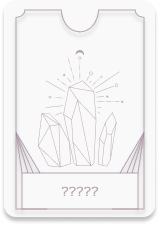
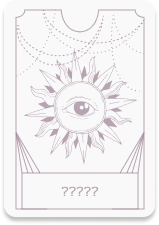
add: easter egg field

diff --git a/packages/database/zod/index.ts b/packages/database/zod/index.ts
@@ -30,7 +30,7 @@ export const RevealedHintInstancesScalarFieldEnumSchema = z.enum(['create_at','u
 
 export const PairScalarFieldEnumSchema = z.enum(['id','freshmenDetailsId','sophomoreDetailsId']);
 
-export const FreshmenDetailsScalarFieldEnumSchema = z.enum(['create_at','update_at','id','userId','thisOrThat','thisOrThatReady','student_id','title','first_name','last_name','nickname','branch','facebook_link','instagram_link','phone','passcodePoints','vip','quota']);
+export const FreshmenDetailsScalarFieldEnumSchema = z.enum(['create_at','update_at','id','userId','thisOrThat','thisOrThatReady','student_id','title','first_name','last_name','nickname','branch','facebook_link','instagram_link','phone','passcodePoints','easterEgg','vip','quota']);
 
 export const HintSlugsScalarFieldEnumSchema = z.enum(['slug','displayName','index']);
 
@@ -224,6 +224,7 @@ export const FreshmenDetailsSchema = z.object({
   instagram_link: z.string().nullable(),
   phone: z.string(),
   passcodePoints: z.number().int(),
+  easterEgg: z.boolean(),
   vip: z.boolean(),
   quota: z.number().int(),
 })
@@ -592,6 +593,7 @@ export const FreshmenDetailsSelectSchema: z.ZodType<Prisma.FreshmenDetailsSelect
   instagram_link: z.boolean().optional(),
   phone: z.boolean().optional(),
   passcodePoints: z.boolean().optional(),
+  easterEgg: z.boolean().optional(),
   vip: z.boolean().optional(),
   quota: z.boolean().optional(),
   user: z.union([z.boolean(),z.lazy(() => UserArgsSchema)]).optional(),
@@ -1261,6 +1263,7 @@ export const FreshmenDetailsWhereInputSchema: z.ZodType<Prisma.FreshmenDetailsWh
   instagram_link: z.union([ z.lazy(() => StringNullableFilterSchema),z.string() ]).optional().nullable(),
   phone: z.union([ z.lazy(() => StringFilterSchema),z.string() ]).optional(),
   passcodePoints: z.union([ z.lazy(() => IntFilterSchema),z.number() ]).optional(),
+  easterEgg: z.union([ z.lazy(() => BoolFilterSchema),z.boolean() ]).optional(),
   vip: z.union([ z.lazy(() => BoolFilterSchema),z.boolean() ]).optional(),
   quota: z.union([ z.lazy(() => IntFilterSchema),z.number() ]).optional(),
   user: z.union([ z.lazy(() => UserRelationFilterSchema),z.lazy(() => UserWhereInputSchema) ]).optional(),
@@ -1287,6 +1290,7 @@ export const FreshmenDetailsOrderByWithRelationInputSchema: z.ZodType<Prisma.Fre
   instagram_link: z.union([ z.lazy(() => SortOrderSchema),z.lazy(() => SortOrderInputSchema) ]).optional(),
   phone: z.lazy(() => SortOrderSchema).optional(),
   passcodePoints: z.lazy(() => SortOrderSchema).optional(),
+  easterEgg: z.lazy(() => SortOrderSchema).optional(),
   vip: z.lazy(() => SortOrderSchema).optional(),
   quota: z.lazy(() => SortOrderSchema).optional(),
   user: z.lazy(() => UserOrderByWithRelationInputSchema).optional(),
@@ -1319,6 +1323,7 @@ export const FreshmenDetailsOrderByWithAggregationInputSchema: z.ZodType<Prisma.
   instagram_link: z.union([ z.lazy(() => SortOrderSchema),z.lazy(() => SortOrderInputSchema) ]).optional(),
   phone: z.lazy(() => SortOrderSchema).optional(),
   passcodePoints: z.lazy(() => SortOrderSchema).optional(),
+  easterEgg: z.lazy(() => SortOrderSchema).optional(),
   vip: z.lazy(() => SortOrderSchema).optional(),
   quota: z.lazy(() => SortOrderSchema).optional(),
   _count: z.lazy(() => FreshmenDetailsCountOrderByAggregateInputSchema).optional(),
@@ -1348,6 +1353,7 @@ export const FreshmenDetailsScalarWhereWithAggregatesInputSchema: z.ZodType<Pris
   instagram_link: z.union([ z.lazy(() => StringNullableWithAggregatesFilterSchema),z.string() ]).optional().nullable(),
   phone: z.union([ z.lazy(() => StringWithAggregatesFilterSchema),z.string() ]).optional(),
   passcodePoints: z.union([ z.lazy(() => IntWithAggregatesFilterSchema),z.number() ]).optional(),
+  easterEgg: z.union([ z.lazy(() => BoolWithAggregatesFilterSchema),z.boolean() ]).optional(),
   vip: z.union([ z.lazy(() => BoolWithAggregatesFilterSchema),z.boolean() ]).optional(),
   quota: z.union([ z.lazy(() => IntWithAggregatesFilterSchema),z.number() ]).optional(),
 }).strict();
@@ -2207,6 +2213,7 @@ export const FreshmenDetailsCreateInputSchema: z.ZodType<Prisma.FreshmenDetailsC
   instagram_link: z.string().optional().nullable(),
   phone: z.string(),
   passcodePoints: z.number().int().optional(),
+  easterEgg: z.boolean().optional(),
   vip: z.boolean().optional(),
   quota: z.number().int().optional(),
   user: z.lazy(() => UserCreateNestedOneWithoutFreshmenDetailsInputSchema),
@@ -2233,6 +2240,7 @@ export const FreshmenDetailsUncheckedCreateInputSchema: z.ZodType<Prisma.Freshme
   instagram_link: z.string().optional().nullable(),
   phone: z.string(),
   passcodePoints: z.number().int().optional(),
+  easterEgg: z.boolean().optional(),
   vip: z.boolean().optional(),
   quota: z.number().int().optional(),
   usedPasscodes: z.lazy(() => PasscodeInstancesUncheckedCreateNestedManyWithoutUsedByInputSchema).optional(),
@@ -2257,6 +2265,7 @@ export const FreshmenDetailsUpdateInputSchema: z.ZodType<Prisma.FreshmenDetailsU
   instagram_link: z.union([ z.string(),z.lazy(() => NullableStringFieldUpdateOperationsInputSchema) ]).optional().nullable(),
   phone: z.union([ z.string(),z.lazy(() => StringFieldUpdateOperationsInputSchema) ]).optional(),
   passcodePoints: z.union([ z.number().int(),z.lazy(() => IntFieldUpdateOperationsInputSchema) ]).optional(),
+  easterEgg: z.union([ z.boolean(),z.lazy(() => BoolFieldUpdateOperationsInputSchema) ]).optional(),
   vip: z.union([ z.boolean(),z.lazy(() => BoolFieldUpdateOperationsInputSchema) ]).optional(),
   quota: z.union([ z.number().int(),z.lazy(() => IntFieldUpdateOperationsInputSchema) ]).optional(),
   user: z.lazy(() => UserUpdateOneRequiredWithoutFreshmenDetailsNestedInputSchema).optional(),
@@ -2283,6 +2292,7 @@ export const FreshmenDetailsUncheckedUpdateInputSchema: z.ZodType<Prisma.Freshme
   instagram_link: z.union([ z.string(),z.lazy(() => NullableStringFieldUpdateOperationsInputSchema) ]).optional().nullable(),
   phone: z.union([ z.string(),z.lazy(() => StringFieldUpdateOperationsInputSchema) ]).optional(),
   passcodePoints: z.union([ z.number().int(),z.lazy(() => IntFieldUpdateOperationsInputSchema) ]).optional(),
+  easterEgg: z.union([ z.boolean(),z.lazy(() => BoolFieldUpdateOperationsInputSchema) ]).optional(),
   vip: z.union([ z.boolean(),z.lazy(() => BoolFieldUpdateOperationsInputSchema) ]).optional(),
   quota: z.union([ z.number().int(),z.lazy(() => IntFieldUpdateOperationsInputSchema) ]).optional(),
   usedPasscodes: z.lazy(() => PasscodeInstancesUncheckedUpdateManyWithoutUsedByNestedInputSchema).optional(),
@@ -2308,6 +2318,7 @@ export const FreshmenDetailsCreateManyInputSchema: z.ZodType<Prisma.FreshmenDeta
   instagram_link: z.string().optional().nullable(),
   phone: z.string(),
   passcodePoints: z.number().int().optional(),
+  easterEgg: z.boolean().optional(),
   vip: z.boolean().optional(),
   quota: z.number().int().optional()
 }).strict();
@@ -2328,6 +2339,7 @@ export const FreshmenDetailsUpdateManyMutationInputSchema: z.ZodType<Prisma.Fres
   instagram_link: z.union([ z.string(),z.lazy(() => NullableStringFieldUpdateOperationsInputSchema) ]).optional().nullable(),
   phone: z.union([ z.string(),z.lazy(() => StringFieldUpdateOperationsInputSchema) ]).optional(),
   passcodePoints: z.union([ z.number().int(),z.lazy(() => IntFieldUpdateOperationsInputSchema) ]).optional(),
+  easterEgg: z.union([ z.boolean(),z.lazy(() => BoolFieldUpdateOperationsInputSchema) ]).optional(),
   vip: z.union([ z.boolean(),z.lazy(() => BoolFieldUpdateOperationsInputSchema) ]).optional(),
   quota: z.union([ z.number().int(),z.lazy(() => IntFieldUpdateOperationsInputSchema) ]).optional(),
 }).strict();
@@ -2349,6 +2361,7 @@ export const FreshmenDetailsUncheckedUpdateManyInputSchema: z.ZodType<Prisma.Fre
   instagram_link: z.union([ z.string(),z.lazy(() => NullableStringFieldUpdateOperationsInputSchema) ]).optional().nullable(),
   phone: z.union([ z.string(),z.lazy(() => StringFieldUpdateOperationsInputSchema) ]).optional(),
   passcodePoints: z.union([ z.number().int(),z.lazy(() => IntFieldUpdateOperationsInputSchema) ]).optional(),
+  easterEgg: z.union([ z.boolean(),z.lazy(() => BoolFieldUpdateOperationsInputSchema) ]).optional(),
   vip: z.union([ z.boolean(),z.lazy(() => BoolFieldUpdateOperationsInputSchema) ]).optional(),
   quota: z.union([ z.number().int(),z.lazy(() => IntFieldUpdateOperationsInputSchema) ]).optional(),
 }).strict();
@@ -3295,6 +3308,7 @@ export const FreshmenDetailsCountOrderByAggregateInputSchema: z.ZodType<Prisma.F
   instagram_link: z.lazy(() => SortOrderSchema).optional(),
   phone: z.lazy(() => SortOrderSchema).optional(),
   passcodePoints: z.lazy(() => SortOrderSchema).optional(),
+  easterEgg: z.lazy(() => SortOrderSchema).optional(),
   vip: z.lazy(() => SortOrderSchema).optional(),
   quota: z.lazy(() => SortOrderSchema).optional()
 }).strict();
@@ -3320,6 +3334,7 @@ export const FreshmenDetailsMaxOrderByAggregateInputSchema: z.ZodType<Prisma.Fre
   instagram_link: z.lazy(() => SortOrderSchema).optional(),
   phone: z.lazy(() => SortOrderSchema).optional(),
   passcodePoints: z.lazy(() => SortOrderSchema).optional(),
+  easterEgg: z.lazy(() => SortOrderSchema).optional(),
   vip: z.lazy(() => SortOrderSchema).optional(),
   quota: z.lazy(() => SortOrderSchema).optional()
 }).strict();
@@ -3340,6 +3355,7 @@ export const FreshmenDetailsMinOrderByAggregateInputSchema: z.ZodType<Prisma.Fre
   instagram_link: z.lazy(() => SortOrderSchema).optional(),
   phone: z.lazy(() => SortOrderSchema).optional(),
   passcodePoints: z.lazy(() => SortOrderSchema).optional(),
+  easterEgg: z.lazy(() => SortOrderSchema).optional(),
   vip: z.lazy(() => SortOrderSchema).optional(),
   quota: z.lazy(() => SortOrderSchema).optional()
 }).strict();
@@ -4954,6 +4970,7 @@ export const FreshmenDetailsCreateWithoutUserInputSchema: z.ZodType<Prisma.Fresh
   instagram_link: z.string().optional().nullable(),
   phone: z.string(),
   passcodePoints: z.number().int().optional(),
+  easterEgg: z.boolean().optional(),
   vip: z.boolean().optional(),
   quota: z.number().int().optional(),
   usedPasscodes: z.lazy(() => PasscodeInstancesCreateNestedManyWithoutUsedByInputSchema).optional(),
@@ -4978,6 +4995,7 @@ export const FreshmenDetailsUncheckedCreateWithoutUserInputSchema: z.ZodType<Pri
   instagram_link: z.string().optional().nullable(),
   phone: z.string(),
   passcodePoints: z.number().int().optional(),
+  easterEgg: z.boolean().optional(),
   vip: z.boolean().optional(),
   quota: z.number().int().optional(),
   usedPasscodes: z.lazy(() => PasscodeInstancesUncheckedCreateNestedManyWithoutUsedByInputSchema).optional(),
@@ -5144,6 +5162,7 @@ export const FreshmenDetailsUpdateWithoutUserInputSchema: z.ZodType<Prisma.Fresh
   instagram_link: z.union([ z.string(),z.lazy(() => NullableStringFieldUpdateOperationsInputSchema) ]).optional().nullable(),
   phone: z.union([ z.string(),z.lazy(() => StringFieldUpdateOperationsInputSchema) ]).optional(),
   passcodePoints: z.union([ z.number().int(),z.lazy(() => IntFieldUpdateOperationsInputSchema) ]).optional(),
+  easterEgg: z.union([ z.boolean(),z.lazy(() => BoolFieldUpdateOperationsInputSchema) ]).optional(),
   vip: z.union([ z.boolean(),z.lazy(() => BoolFieldUpdateOperationsInputSchema) ]).optional(),
   quota: z.union([ z.number().int(),z.lazy(() => IntFieldUpdateOperationsInputSchema) ]).optional(),
   usedPasscodes: z.lazy(() => PasscodeInstancesUpdateManyWithoutUsedByNestedInputSchema).optional(),
@@ -5168,6 +5187,7 @@ export const FreshmenDetailsUncheckedUpdateWithoutUserInputSchema: z.ZodType<Pri
   instagram_link: z.union([ z.string(),z.lazy(() => NullableStringFieldUpdateOperationsInputSchema) ]).optional().nullable(),
   phone: z.union([ z.string(),z.lazy(() => StringFieldUpdateOperationsInputSchema) ]).optional(),
   passcodePoints: z.union([ z.number().int(),z.lazy(() => IntFieldUpdateOperationsInputSchema) ]).optional(),
+  easterEgg: z.union([ z.boolean(),z.lazy(() => BoolFieldUpdateOperationsInputSchema) ]).optional(),
   vip: z.union([ z.boolean(),z.lazy(() => BoolFieldUpdateOperationsInputSchema) ]).optional(),
   quota: z.union([ z.number().int(),z.lazy(() => IntFieldUpdateOperationsInputSchema) ]).optional(),
   usedPasscodes: z.lazy(() => PasscodeInstancesUncheckedUpdateManyWithoutUsedByNestedInputSchema).optional(),
@@ -5343,6 +5363,7 @@ export const FreshmenDetailsCreateWithoutScannedQrsInputSchema: z.ZodType<Prisma
   instagram_link: z.string().optional().nullable(),
   phone: z.string(),
   passcodePoints: z.number().int().optional(),
+  easterEgg: z.boolean().optional(),
   vip: z.boolean().optional(),
   quota: z.number().int().optional(),
   user: z.lazy(() => UserCreateNestedOneWithoutFreshmenDetailsInputSchema),
@@ -5368,6 +5389,7 @@ export const FreshmenDetailsUncheckedCreateWithoutScannedQrsInputSchema: z.ZodTy
   instagram_link: z.string().optional().nullable(),
   phone: z.string(),
   passcodePoints: z.number().int().optional(),
+  easterEgg: z.boolean().optional(),
   vip: z.boolean().optional(),
   quota: z.number().int().optional(),
   usedPasscodes: z.lazy(() => PasscodeInstancesUncheckedCreateNestedManyWithoutUsedByInputSchema).optional(),
@@ -5467,6 +5489,7 @@ export const FreshmenDetailsScalarWhereInputSchema: z.ZodType<Prisma.FreshmenDet
   instagram_link: z.union([ z.lazy(() => StringNullableFilterSchema),z.string() ]).optional().nullable(),
   phone: z.union([ z.lazy(() => StringFilterSchema),z.string() ]).optional(),
   passcodePoints: z.union([ z.lazy(() => IntFilterSchema),z.number() ]).optional(),
+  easterEgg: z.union([ z.lazy(() => BoolFilterSchema),z.boolean() ]).optional(),
   vip: z.union([ z.lazy(() => BoolFilterSchema),z.boolean() ]).optional(),
   quota: z.union([ z.lazy(() => IntFilterSchema),z.number() ]).optional(),
 }).strict();
@@ -5538,6 +5561,7 @@ export const FreshmenDetailsCreateWithoutUsedPasscodesInputSchema: z.ZodType<Pri
   instagram_link: z.string().optional().nullable(),
   phone: z.string(),
   passcodePoints: z.number().int().optional(),
+  easterEgg: z.boolean().optional(),
   vip: z.boolean().optional(),
   quota: z.number().int().optional(),
   user: z.lazy(() => UserCreateNestedOneWithoutFreshmenDetailsInputSchema),
@@ -5563,6 +5587,7 @@ export const FreshmenDetailsUncheckedCreateWithoutUsedPasscodesInputSchema: z.Zo
   instagram_link: z.string().optional().nullable(),
   phone: z.string(),
   passcodePoints: z.number().int().optional(),
+  easterEgg: z.boolean().optional(),
   vip: z.boolean().optional(),
   quota: z.number().int().optional(),
   scannedQrs: z.lazy(() => QRInstancesUncheckedCreateNestedManyWithoutScannedByInputSchema).optional(),
@@ -5647,6 +5672,7 @@ export const FreshmenDetailsUpdateWithoutUsedPasscodesInputSchema: z.ZodType<Pri
   instagram_link: z.union([ z.string(),z.lazy(() => NullableStringFieldUpdateOperationsInputSchema) ]).optional().nullable(),
   phone: z.union([ z.string(),z.lazy(() => StringFieldUpdateOperationsInputSchema) ]).optional(),
   passcodePoints: z.union([ z.number().int(),z.lazy(() => IntFieldUpdateOperationsInputSchema) ]).optional(),
+  easterEgg: z.union([ z.boolean(),z.lazy(() => BoolFieldUpdateOperationsInputSchema) ]).optional(),
   vip: z.union([ z.boolean(),z.lazy(() => BoolFieldUpdateOperationsInputSchema) ]).optional(),
   quota: z.union([ z.number().int(),z.lazy(() => IntFieldUpdateOperationsInputSchema) ]).optional(),
   user: z.lazy(() => UserUpdateOneRequiredWithoutFreshmenDetailsNestedInputSchema).optional(),
@@ -5672,6 +5698,7 @@ export const FreshmenDetailsUncheckedUpdateWithoutUsedPasscodesInputSchema: z.Zo
   instagram_link: z.union([ z.string(),z.lazy(() => NullableStringFieldUpdateOperationsInputSchema) ]).optional().nullable(),
   phone: z.union([ z.string(),z.lazy(() => StringFieldUpdateOperationsInputSchema) ]).optional(),
   passcodePoints: z.union([ z.number().int(),z.lazy(() => IntFieldUpdateOperationsInputSchema) ]).optional(),
+  easterEgg: z.union([ z.boolean(),z.lazy(() => BoolFieldUpdateOperationsInputSchema) ]).optional(),
   vip: z.union([ z.boolean(),z.lazy(() => BoolFieldUpdateOperationsInputSchema) ]).optional(),
   quota: z.union([ z.number().int(),z.lazy(() => IntFieldUpdateOperationsInputSchema) ]).optional(),
   scannedQrs: z.lazy(() => QRInstancesUncheckedUpdateManyWithoutScannedByNestedInputSchema).optional(),
@@ -5845,6 +5872,7 @@ export const FreshmenDetailsCreateWithoutPairInputSchema: z.ZodType<Prisma.Fresh
   instagram_link: z.string().optional().nullable(),
   phone: z.string(),
   passcodePoints: z.number().int().optional(),
+  easterEgg: z.boolean().optional(),
   vip: z.boolean().optional(),
   quota: z.number().int().optional(),
   user: z.lazy(() => UserCreateNestedOneWithoutFreshmenDetailsInputSchema),
@@ -5870,6 +5898,7 @@ export const FreshmenDetailsUncheckedCreateWithoutPairInputSchema: z.ZodType<Pri
   instagram_link: z.string().optional().nullable(),
   phone: z.string(),
   passcodePoints: z.number().int().optional(),
+  easterEgg: z.boolean().optional(),
   vip: z.boolean().optional(),
   quota: z.number().int().optional(),
   usedPasscodes: z.lazy(() => PasscodeInstancesUncheckedCreateNestedManyWithoutUsedByInputSchema).optional(),
@@ -5977,6 +6006,7 @@ export const FreshmenDetailsUpdateWithoutPairInputSchema: z.ZodType<Prisma.Fresh
   instagram_link: z.union([ z.string(),z.lazy(() => NullableStringFieldUpdateOperationsInputSchema) ]).optional().nullable(),
   phone: z.union([ z.string(),z.lazy(() => StringFieldUpdateOperationsInputSchema) ]).optional(),
   passcodePoints: z.union([ z.number().int(),z.lazy(() => IntFieldUpdateOperationsInputSchema) ]).optional(),
+  easterEgg: z.union([ z.boolean(),z.lazy(() => BoolFieldUpdateOperationsInputSchema) ]).optional(),
   vip: z.union([ z.boolean(),z.lazy(() => BoolFieldUpdateOperationsInputSchema) ]).optional(),
   quota: z.union([ z.number().int(),z.lazy(() => IntFieldUpdateOperationsInputSchema) ]).optional(),
   user: z.lazy(() => UserUpdateOneRequiredWithoutFreshmenDetailsNestedInputSchema).optional(),
@@ -6002,6 +6032,7 @@ export const FreshmenDetailsUncheckedUpdateWithoutPairInputSchema: z.ZodType<Pri
   instagram_link: z.union([ z.string(),z.lazy(() => NullableStringFieldUpdateOperationsInputSchema) ]).optional().nullable(),
   phone: z.union([ z.string(),z.lazy(() => StringFieldUpdateOperationsInputSchema) ]).optional(),
   passcodePoints: z.union([ z.number().int(),z.lazy(() => IntFieldUpdateOperationsInputSchema) ]).optional(),
+  easterEgg: z.union([ z.boolean(),z.lazy(() => BoolFieldUpdateOperationsInputSchema) ]).optional(),
   vip: z.union([ z.boolean(),z.lazy(() => BoolFieldUpdateOperationsInputSchema) ]).optional(),
   quota: z.union([ z.number().int(),z.lazy(() => IntFieldUpdateOperationsInputSchema) ]).optional(),
   usedPasscodes: z.lazy(() => PasscodeInstancesUncheckedUpdateManyWithoutUsedByNestedInputSchema).optional(),
@@ -6840,6 +6871,7 @@ export const FreshmenDetailsCreateWithoutTodayResinInputSchema: z.ZodType<Prisma
   instagram_link: z.string().optional().nullable(),
   phone: z.string(),
   passcodePoints: z.number().int().optional(),
+  easterEgg: z.boolean().optional(),
   vip: z.boolean().optional(),
   quota: z.number().int().optional(),
   user: z.lazy(() => UserCreateNestedOneWithoutFreshmenDetailsInputSchema),
@@ -6865,6 +6897,7 @@ export const FreshmenDetailsUncheckedCreateWithoutTodayResinInputSchema: z.ZodTy
   instagram_link: z.string().optional().nullable(),
   phone: z.string(),
   passcodePoints: z.number().int().optional(),
+  easterEgg: z.boolean().optional(),
   vip: z.boolean().optional(),
   quota: z.number().int().optional(),
   usedPasscodes: z.lazy(() => PasscodeInstancesUncheckedCreateNestedManyWithoutUsedByInputSchema).optional(),
@@ -6898,6 +6931,7 @@ export const FreshmenDetailsUpdateWithoutTodayResinInputSchema: z.ZodType<Prisma
   instagram_link: z.union([ z.string(),z.lazy(() => NullableStringFieldUpdateOperationsInputSchema) ]).optional().nullable(),
   phone: z.union([ z.string(),z.lazy(() => StringFieldUpdateOperationsInputSchema) ]).optional(),
   passcodePoints: z.union([ z.number().int(),z.lazy(() => IntFieldUpdateOperationsInputSchema) ]).optional(),
+  easterEgg: z.union([ z.boolean(),z.lazy(() => BoolFieldUpdateOperationsInputSchema) ]).optional(),
   vip: z.union([ z.boolean(),z.lazy(() => BoolFieldUpdateOperationsInputSchema) ]).optional(),
   quota: z.union([ z.number().int(),z.lazy(() => IntFieldUpdateOperationsInputSchema) ]).optional(),
   user: z.lazy(() => UserUpdateOneRequiredWithoutFreshmenDetailsNestedInputSchema).optional(),
@@ -6923,6 +6957,7 @@ export const FreshmenDetailsUncheckedUpdateWithoutTodayResinInputSchema: z.ZodTy
   instagram_link: z.union([ z.string(),z.lazy(() => NullableStringFieldUpdateOperationsInputSchema) ]).optional().nullable(),
   phone: z.union([ z.string(),z.lazy(() => StringFieldUpdateOperationsInputSchema) ]).optional(),
   passcodePoints: z.union([ z.number().int(),z.lazy(() => IntFieldUpdateOperationsInputSchema) ]).optional(),
+  easterEgg: z.union([ z.boolean(),z.lazy(() => BoolFieldUpdateOperationsInputSchema) ]).optional(),
   vip: z.union([ z.boolean(),z.lazy(() => BoolFieldUpdateOperationsInputSchema) ]).optional(),
   quota: z.union([ z.number().int(),z.lazy(() => IntFieldUpdateOperationsInputSchema) ]).optional(),
   usedPasscodes: z.lazy(() => PasscodeInstancesUncheckedUpdateManyWithoutUsedByNestedInputSchema).optional(),
@@ -7034,6 +7069,7 @@ export const FreshmenDetailsUpdateWithoutScannedQrsInputSchema: z.ZodType<Prisma
   instagram_link: z.union([ z.string(),z.lazy(() => NullableStringFieldUpdateOperationsInputSchema) ]).optional().nullable(),
   phone: z.union([ z.string(),z.lazy(() => StringFieldUpdateOperationsInputSchema) ]).optional(),
   passcodePoints: z.union([ z.number().int(),z.lazy(() => IntFieldUpdateOperationsInputSchema) ]).optional(),
+  easterEgg: z.union([ z.boolean(),z.lazy(() => BoolFieldUpdateOperationsInputSchema) ]).optional(),
   vip: z.union([ z.boolean(),z.lazy(() => BoolFieldUpdateOperationsInputSchema) ]).optional(),
   quota: z.union([ z.number().int(),z.lazy(() => IntFieldUpdateOperationsInputSchema) ]).optional(),
   user: z.lazy(() => UserUpdateOneRequiredWithoutFreshmenDetailsNestedInputSchema).optional(),
@@ -7059,6 +7095,7 @@ export const FreshmenDetailsUncheckedUpdateWithoutScannedQrsInputSchema: z.ZodTy
   instagram_link: z.union([ z.string(),z.lazy(() => NullableStringFieldUpdateOperationsInputSchema) ]).optional().nullable(),
   phone: z.union([ z.string(),z.lazy(() => StringFieldUpdateOperationsInputSchema) ]).optional(),
   passcodePoints: z.union([ z.number().int(),z.lazy(() => IntFieldUpdateOperationsInputSchema) ]).optional(),
+  easterEgg: z.union([ z.boolean(),z.lazy(() => BoolFieldUpdateOperationsInputSchema) ]).optional(),
   vip: z.union([ z.boolean(),z.lazy(() => BoolFieldUpdateOperationsInputSchema) ]).optional(),
   quota: z.union([ z.number().int(),z.lazy(() => IntFieldUpdateOperationsInputSchema) ]).optional(),
   usedPasscodes: z.lazy(() => PasscodeInstancesUncheckedUpdateManyWithoutUsedByNestedInputSchema).optional(),
@@ -7083,6 +7120,7 @@ export const FreshmenDetailsUncheckedUpdateManyWithoutScannedByInputSchema: z.Zo
   instagram_link: z.union([ z.string(),z.lazy(() => NullableStringFieldUpdateOperationsInputSchema) ]).optional().nullable(),
   phone: z.union([ z.string(),z.lazy(() => StringFieldUpdateOperationsInputSchema) ]).optional(),
   passcodePoints: z.union([ z.number().int(),z.lazy(() => IntFieldUpdateOperationsInputSchema) ]).optional(),
+  easterEgg: z.union([ z.boolean(),z.lazy(() => BoolFieldUpdateOperationsInputSchema) ]).optional(),
   vip: z.union([ z.boolean(),z.lazy(() => BoolFieldUpdateOperationsInputSchema) ]).optional(),
   quota: z.union([ z.number().int(),z.lazy(() => IntFieldUpdateOperationsInputSchema) ]).optional(),
 }).strict();

diff --git a/apps/client/src/routes/(auth)/home/+page.svelte b/apps/client/src/routes/(auth)/home/+page.svelte
@@ -16,7 +16,8 @@
 	import { userType } from '$lib/store/userType';
 	import FactionDisplay from '$components/svelte/FactionDisplay.svelte';
 
-	const { session, homePageState, user, playerType, hasPair, vip } = $page.data as PageData;
+	const { session, homePageState, user, playerType, hasPair, vip, easterEgg } =
+		$page.data as PageData;
 
 	let isQrCodeActive = new Date() >= homePageState.qrCode.activateDate;
 	let isHintActive = new Date().getTime() >= homePageState.hints.activateDate.getTime();
@@ -82,10 +83,10 @@
 			link={homePageState.profile.href}
 		/>
 		<CardButtonMenu
-			isActived={$userType === 'FRESH' && (vip ?? false)}
+			isActived={$userType === 'FRESH' && ((easterEgg ?? false) || vip)}
 			img_active={'../sacred-active.png'}
-			img_inactive={'../sacred-inactive.png'}
-			text={$userType === 'FRESH' && (vip ?? false) ? 'เวทมนต์ต้องห้าม' : '???'}
+			img_inactive={'/sacred-inactive.png'}
+			text={$userType === 'FRESH' && ((easterEgg ?? false) || vip) ? 'เวทมนต์ต้องห้าม' : '???'}
 			link={'/sacred'}
 		/>
 	</div>

diff --git a/apps/client/src/routes/(auth)/(freshmen)/enter-passcode/+page.svelte b/apps/client/src/routes/(auth)/(freshmen)/enter-passcode/+page.svelte
@@ -173,7 +173,8 @@
 		</p>
 		<p class="text-center font-Pridi text-sm text-white font-thin">
 			โดยที่หากได้รับรู้ถึงความลับของเผ่าภูตเดียวกันกับภูตของจอมเวทย์ ตัวเจ้าจะได้ Spirit Shards
-			มากกว่าปกติ
+			มากกว่าปกติ โดยตำนานได้ยังเคยเล่าขานกันว่าไม่เคยมีจอมเวทย์คนไหนล้วงความลับของภูตได้ครบทั้ง 12
+			มาก่อน
 		</p>
 		<p class="text-center font-Pridi text-sm text-white font-thin">
 			จอมเวทย์จะไม่สามารถกรอกรหัสของเหล่าภูตที่เคยกรอกรหัสไปแล้วซ้ำได้

diff --git a/apps/client/src/routes/(auth)/(freshmen)/sacred/+page.server.ts b/apps/client/src/routes/(auth)/(freshmen)/sacred/+page.server.ts
@@ -5,7 +5,7 @@ import { trpcOnServer } from '$lib/trpc';
 export const load = (async ({ locals, fetch }) => {
 	const { user } = locals;
 	if (!user?.freshmenDetails?.id) throw redirect(307, '/');
-	if (!user?.freshmenDetails?.vip) throw redirect(307, '/');
+	if (!(user?.freshmenDetails?.vip || user?.freshmenDetails.easterEgg)) throw redirect(307, '/');
 
 	const trpc = trpcOnServer(fetch);
 

diff --git a/apps/client/src/routes/(auth)/home/+page.server.ts b/apps/client/src/routes/(auth)/home/+page.server.ts
@@ -111,6 +111,7 @@ export const load: PageServerLoad = async ({ locals }) => {
 		session,
 		user,
 		hasPair,
-		vip: user.freshmenDetails?.vip
+		vip: user.freshmenDetails?.vip,
+		easterEgg: user.freshmenDetails?.easterEgg
 	};
 };

diff --git a/apps/client/src/routes/(auth)/(freshmen)/sacred/+page.svelte b/apps/client/src/routes/(auth)/(freshmen)/sacred/+page.svelte
@@ -25,8 +25,6 @@
 			ost.currentTime = 0;
 		}
 	});
-
-	console.log(logs);
 </script>
 
 <SrhHeading class="text-accent text-center w-full text-4xl font-bold shadow-2xl font-krub">
